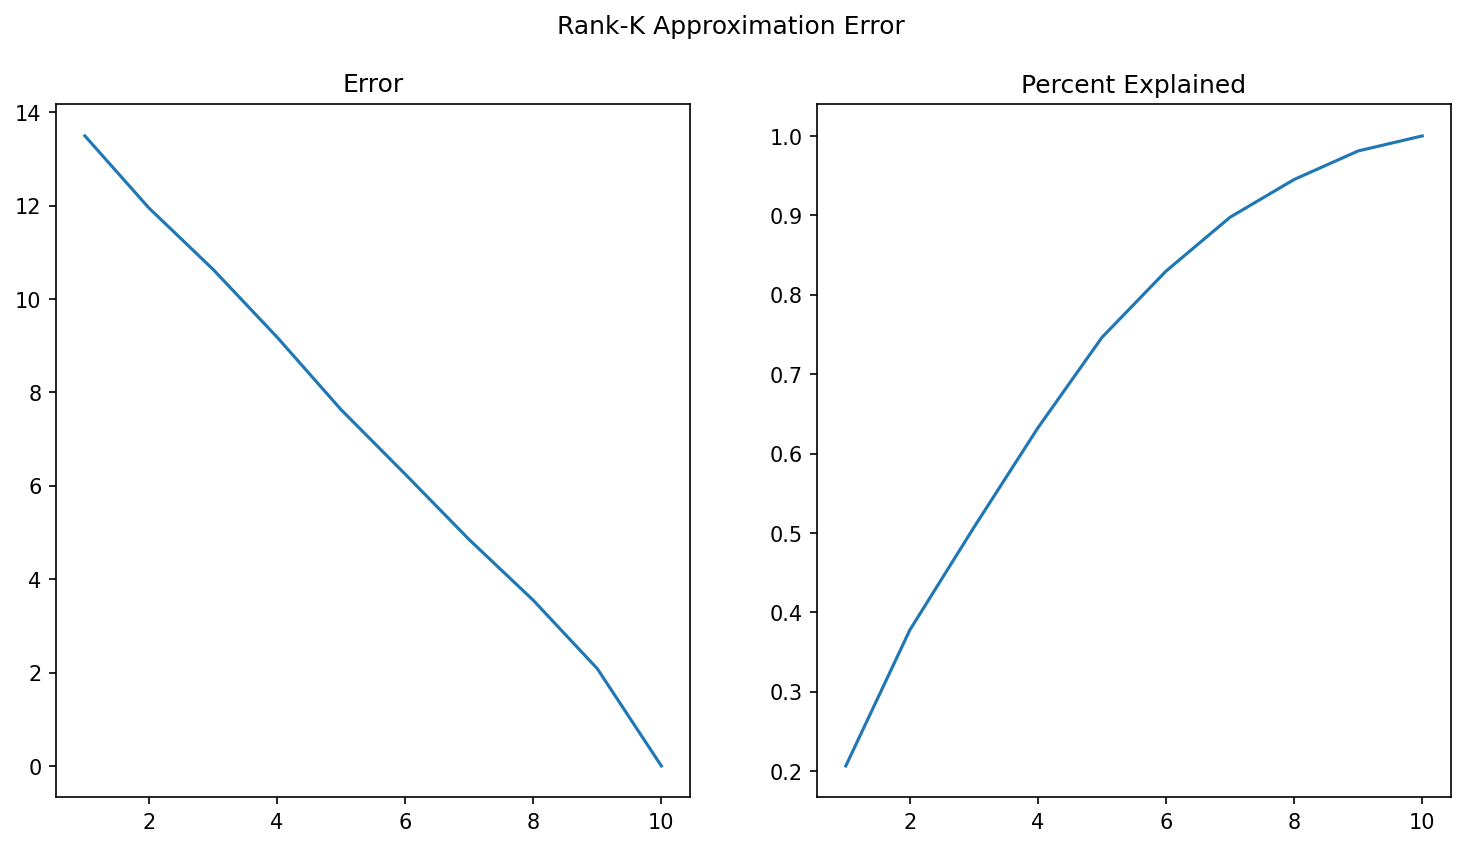
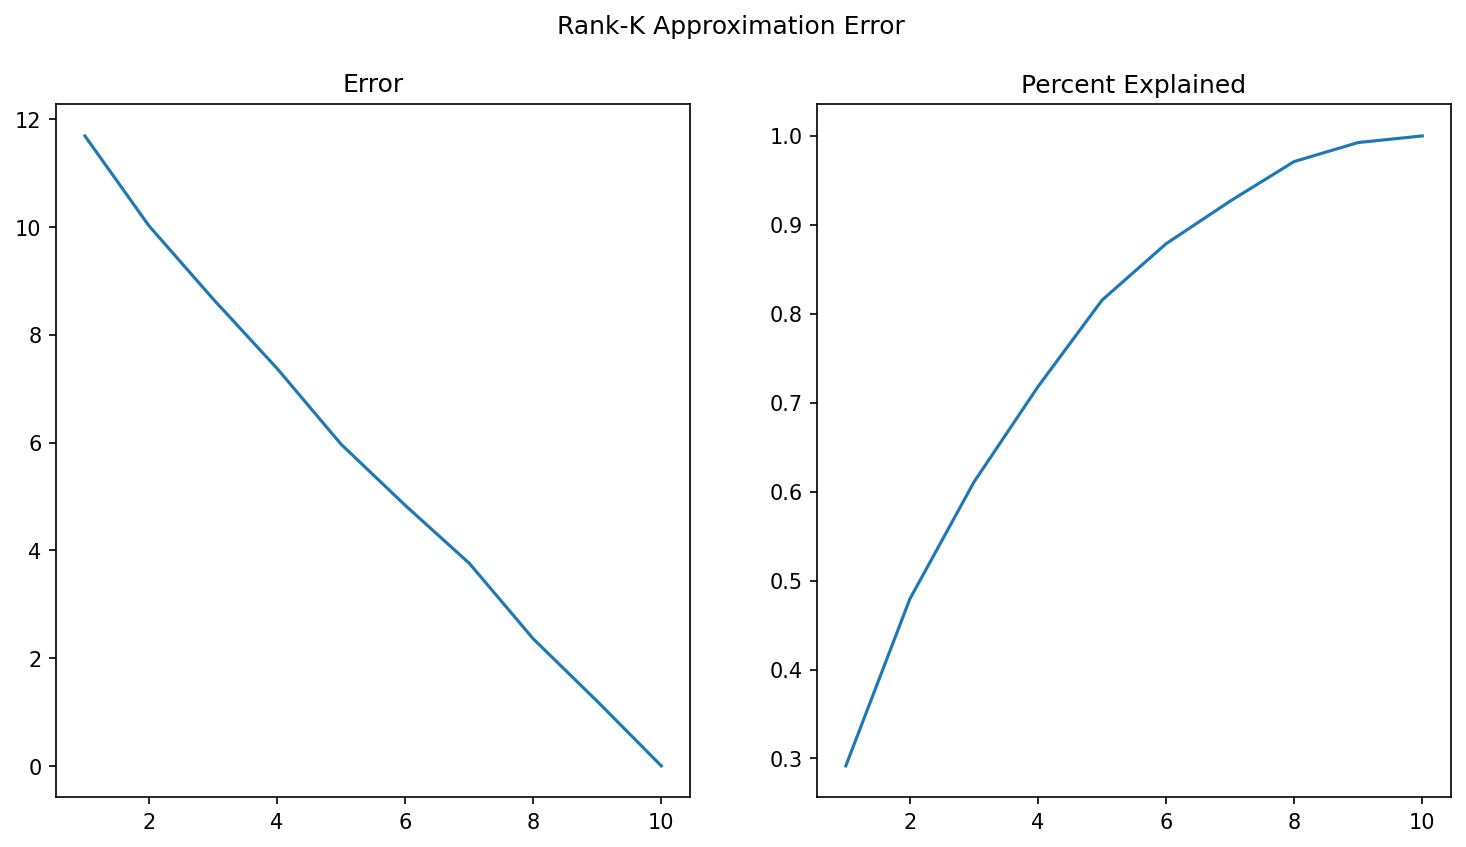
Updates to Week 2 notes

diff --git a/phase1/week02/svd_practice.py b/phase1/week02/svd_practice.py
@@ -1,8 +1,8 @@
 import numpy as np
 import matplotlib.pyplot as plt
 
-A = np.array([[3,1],
-             [2,4]])
+A = np.array([[2,4],
+             [1,2]])
 
 U, s, Vt = np.linalg.svd(A)
 

diff --git a/phase1/week02/notes.md b/phase1/week02/notes.md
@@ -214,11 +214,67 @@ This means the system is not Linear-Time Invariant (LTI).
    
    $$||A-A_{Approx}|| = \sqrt{\sum_{i=1}^{m}\sum_{j=1}^{n}|a_{ij}-b_{ij}|^2}$$
 
-  - Percent Explained uses the Eigvalue matrix:
+  - Percent Explained uses the singular values from the $\Sigma$ Eigenvalue matrix:
    
    $$PctExp = \frac{\sum_{i=1}^{k}\sigma_{i}^{2}}{\sum_{i=1}^{n}\sigma_{i}^{2}}$$
-   
+
 - Plotted Error and Percent Explained vs k
 ![SVD Visualization](figures/rank_k_approximation.png)
 - Identified thresholds at which XX% of variance explained
+
+### SVD Examples
+#### Example 1
+
+$$
+A=\begin{bmatrix}
+2 & 4 \\
+1 & 2
+\end{bmatrix}
+$$
+
+$$
+AA^T=\begin{bmatrix}
+20 & 10 \\
+10 & 5
+\end{bmatrix}
+$$
+
+$$\lambda_1 = 25, \lambda_2=0$$
+
+$$
+U=\begin{bmatrix}
+\frac{2}{\sqrt{5}} & \frac{-1}{\sqrt{5}} \\
+\frac{1}{\sqrt{5}} & \frac{2}{\sqrt{5}}
+\end{bmatrix}
+$$
+
+$$
+A^TA=\begin{bmatrix}
+5 & 10 \\
+10 & 20
+\end{bmatrix}
+$$
+
+$$\lambda_1 = 25, \lambda_2=0$$
+
+$$
+V=\begin{bmatrix}
+\frac{1}{\sqrt{5}} & \frac{-2}{\sqrt{5}} \\
+\frac{2}{\sqrt{5}} & \frac{1}{\sqrt{5}}
+\end{bmatrix}
+$$
+
+$$
+\Sigma =\begin{bmatrix}
+5 & 0 \\
+0 & 0
+\end{bmatrix}
+$$
+
+$$
+A = U \Sigma V^T =\begin{bmatrix}
+2 & 4 \\
+1 & 2
+\end{bmatrix}
+$$
 